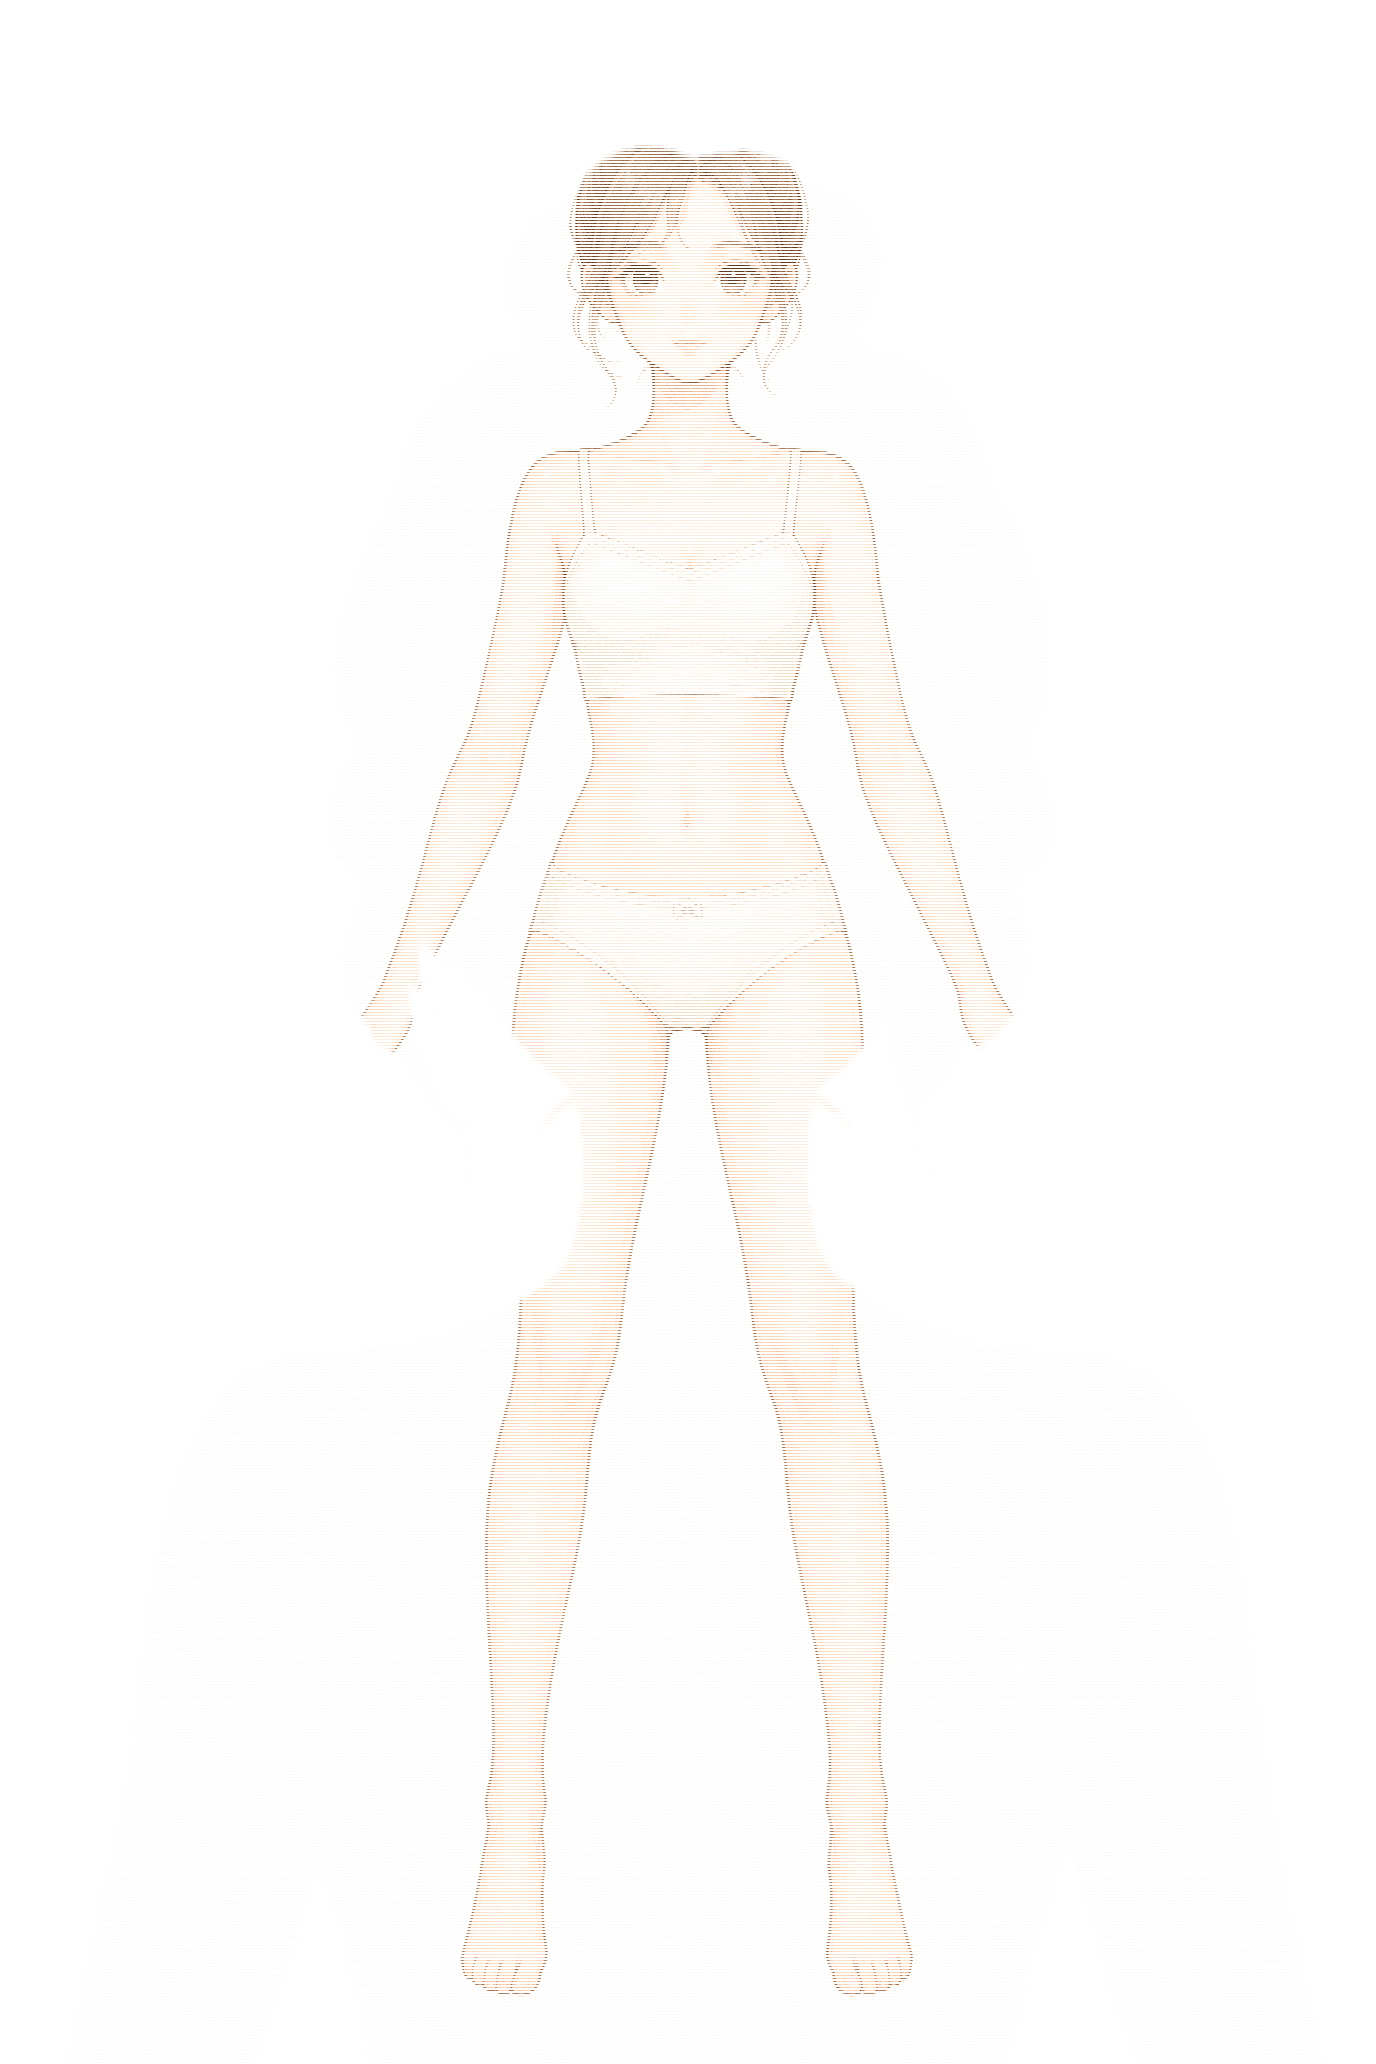
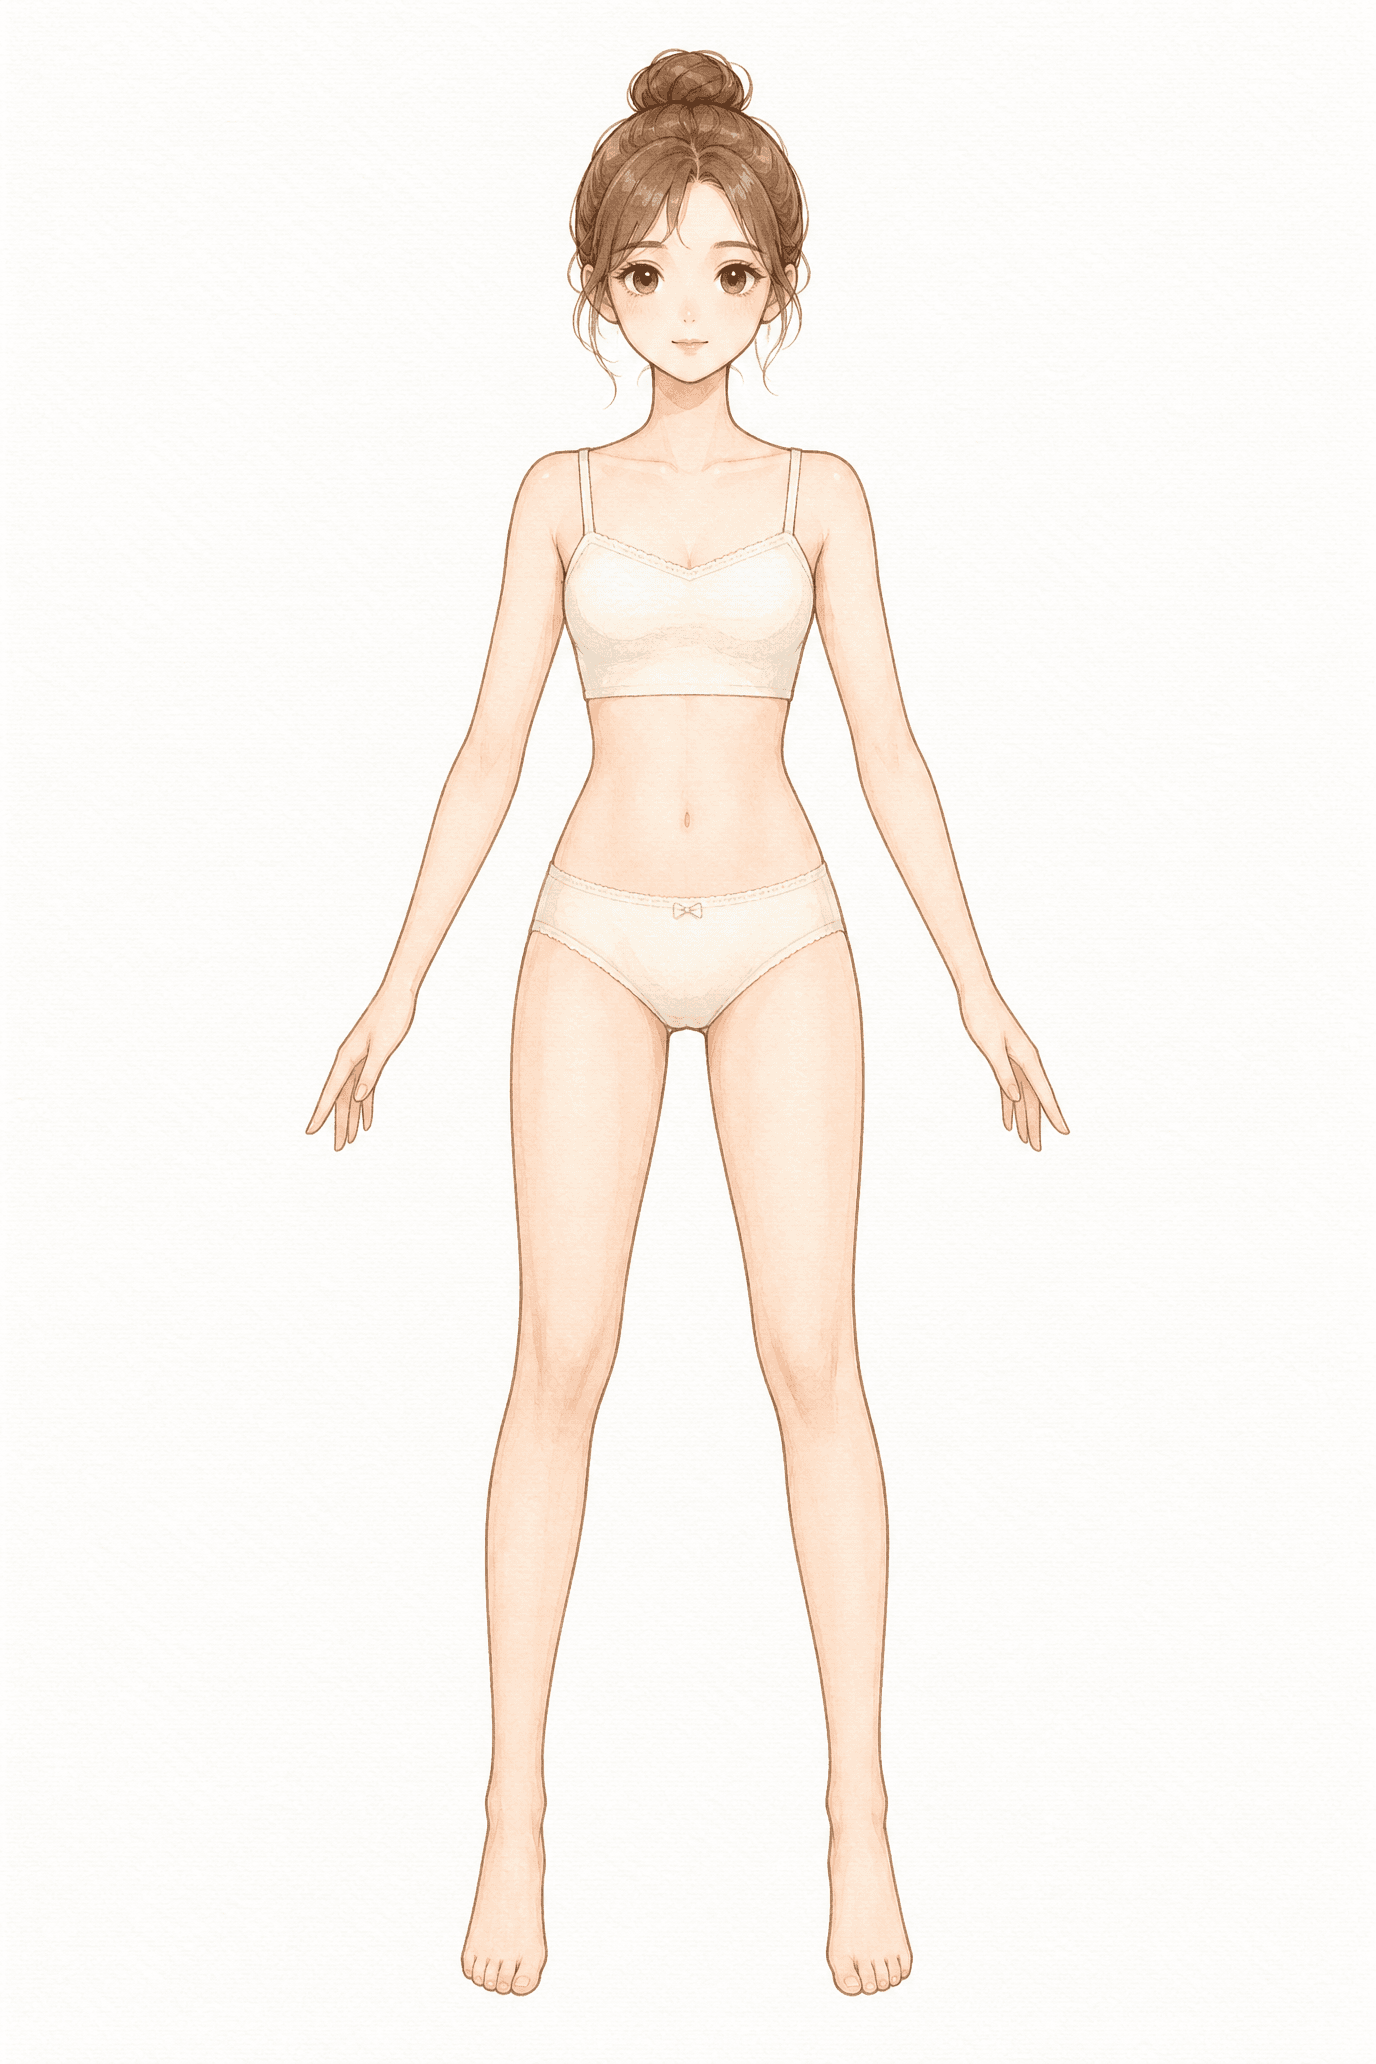
回滚人形透明抠图：恢复白底人台 + 椭圆遮罩版（颜色抠图丢失头顶/手/大腿，改用 ML 重做）

Changed region(s): [[0.2188, 0.0, 0.7812, 0.9612]]

diff --git a/src/components/outfit/ModelDisplay.tsx b/src/components/outfit/ModelDisplay.tsx
@@ -10,6 +10,9 @@ const ANGLE_LABELS = ["正面", "背面"]
 const SWIPE_THRESHOLD = 30
 const MAX_VISUAL_SHIFT = 120
 
+// 把矩形白底人台羽化成柔和的纵向椭圆，溶进近白场景背景，去掉生硬的方框感
+const MANNEQUIN_MASK = "radial-gradient(ellipse 66% 88% at 50% 50%, #000 55%, transparent 96%)"
+
 const SLOT_MARKERS: Record<string, { top: string; left: string; label: string }> = {
   accessories:{ top: "10%", left: "50%", label: "饰" },
   outerwear:  { top: "32%", left: "50%", label: "外" },
@@ -205,6 +208,8 @@ export default function ModelDisplay({ gender, angleIndex: controlledIndex, onAn
             draggable={false}
             style={{
               opacity: !imagesLoaded.has(ROTATION_ANGLES[angleIndex]) ? 0.6 : 1,
+              WebkitMaskImage: MANNEQUIN_MASK,
+              maskImage: MANNEQUIN_MASK,
             }}
           />
         </div>
